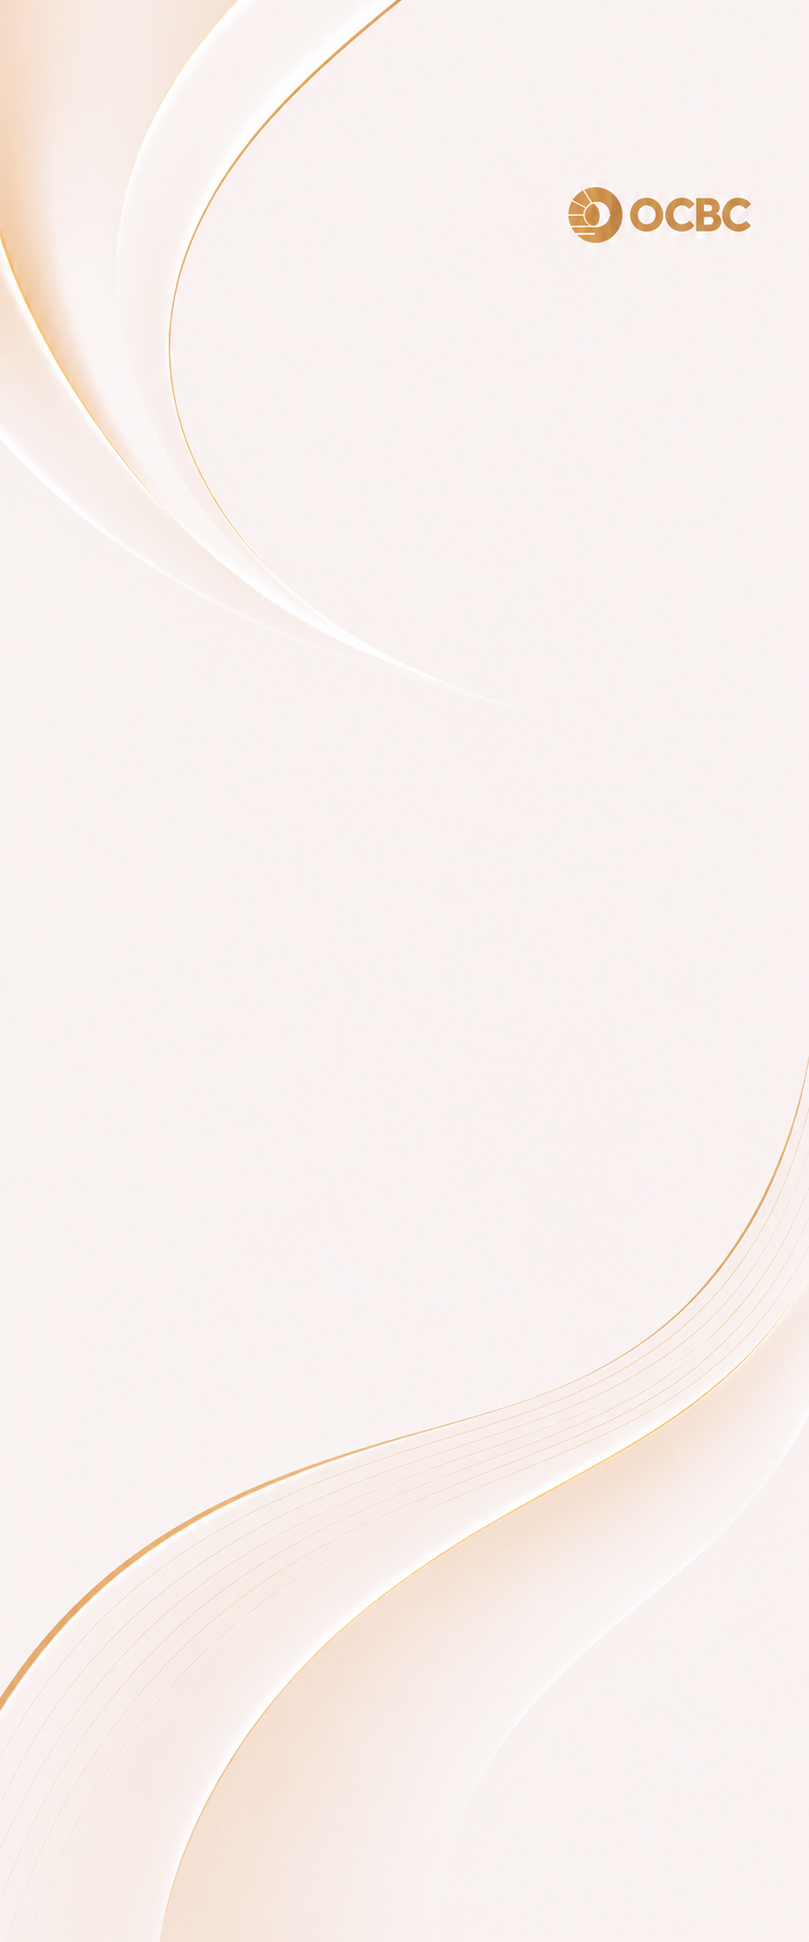
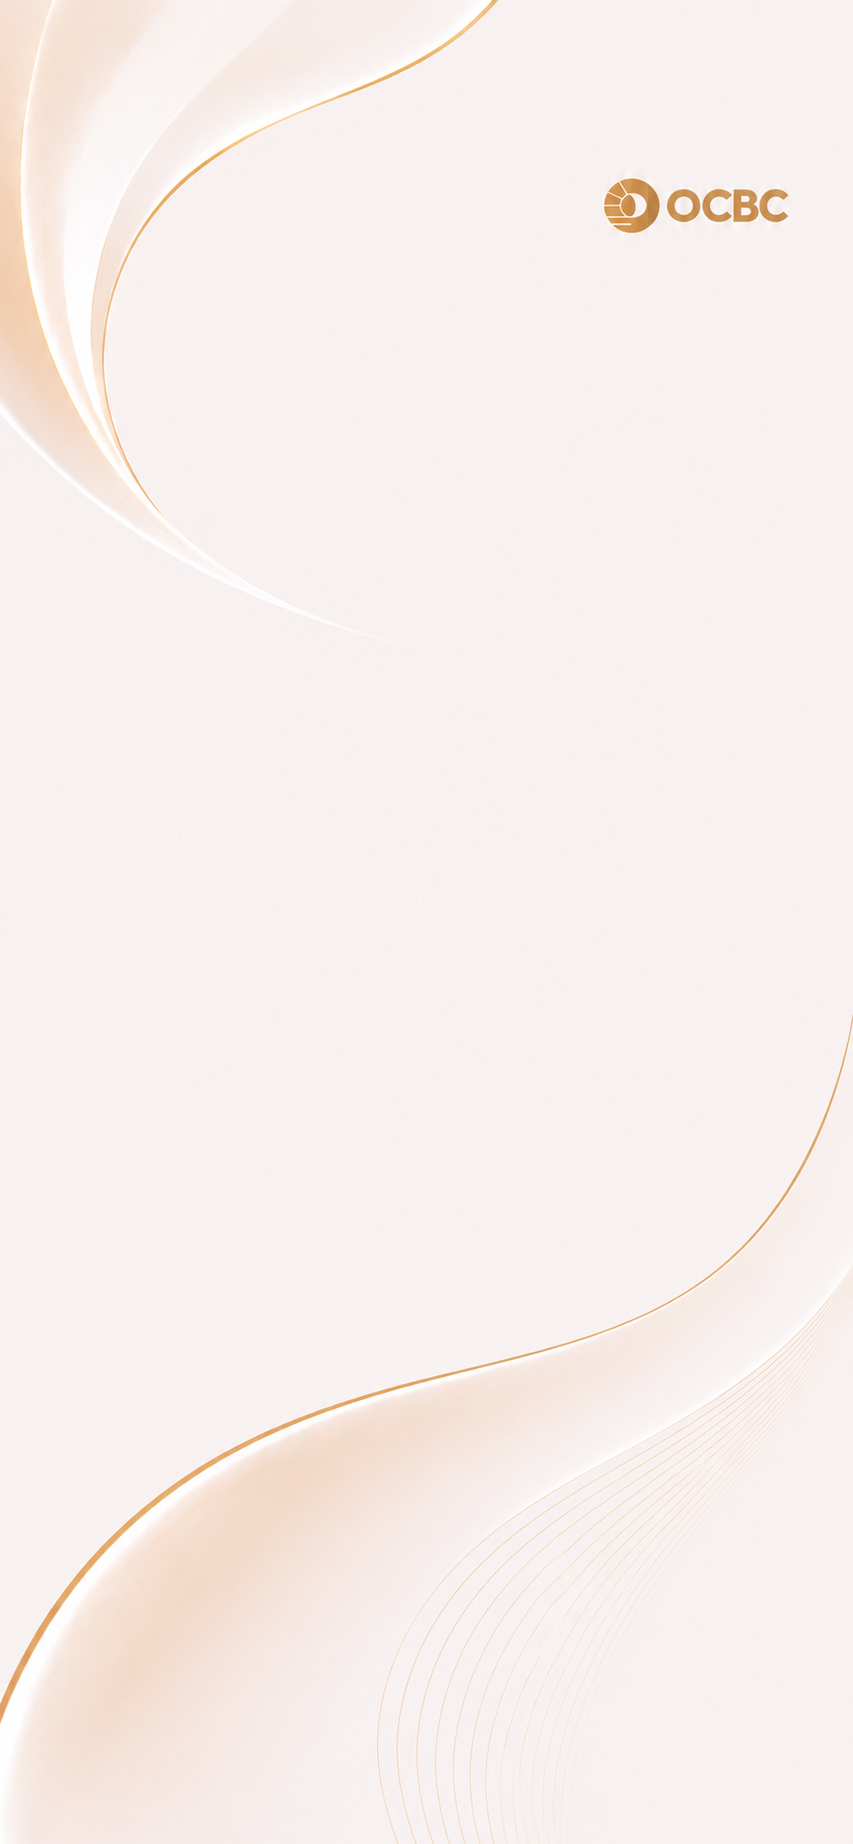
update ptt

diff --git a/OCBC_MyOneTeam_ExpDay_Demo.html b/OCBC_MyOneTeam_ExpDay_Demo.html
@@ -854,7 +854,7 @@
   <div class="screen">
     <div class="notch" style="position:absolute;top:0;left:50%;transform:translateX(-50%);width:122px;height:32px;background:#0a0b0d;border-radius:0 0 20px 20px;z-index:50"></div>
     <div class="screenbg" id="screenbg" style="display:none;position:absolute;top:0;left:0;right:0;bottom:0;overflow:hidden;z-index:0;pointer-events:none;background:#fbf3e9">
-      <img src="images/ocbc-ea-myaiteam.png" alt="" style="position:absolute;left:0;top:-40px;width:100%;height:auto;display:block">
+      <img id="screenbgImg" src="images/ocbc-ea-myaiteam.png" alt="" style="position:absolute;left:0;top:-40px;width:100%;height:auto;display:block">
     </div>
     <div class="statusbar" id="statusbar"><span id="clock">9:41</span><span>5G&nbsp; 100%</span></div>
     <div class="view" id="view"></div>
@@ -1763,12 +1763,13 @@ goals(){const sel=AGENTS.filter(a=>state.agents.includes(a.id));
     (AGENT_Q[a.id]||[]).forEach(f=>turns.push({type:'q',agent:a,field:f}));
   });
   state._turns=turns;
-  return appbar('Your Goals','team')+`<div class="pad" style="padding-bottom:24px">
-  <div class="stepbadge">Step 2 · Tell us about your goals</div>
+  return `<div style="position:relative">
+  <div style="position:relative;z-index:1;padding-top:50px">${appbar('Your Goals','team',false,true)}<div class="pad" style="padding-bottom:24px">
+  <div class="stepbadge gold">Step 2 · Tell us about your goals</div>
   <h1>Quick Chat With Your Team</h1>
   <p class="sub">We've already got some of this on file. Use the suggested answer or type your own.</p>
   <div id="goalChat" class="goalchat"></div>
-</div>`;},
+</div></div></div>`;},
 
 risk(){const surplus=BANK_KNOWN.monthlyIncome-BANK_KNOWN.monthlySpend;return appbar('Risk Comfort','goals')+`<div class="pad">
   <div class="stepbadge">Step 3 · Your risk comfort</div>
@@ -2937,8 +2938,20 @@ function startCarousel(){
 function render(){
   if(window._agTimer){clearInterval(window._agTimer);window._agTimer=null;}
   closePicker();hideModal();$('view').innerHTML=S[cur]();$('view').scrollTop=0;
-  $('statusbar').className='statusbar'+(cur==='home'||cur==='team'?' onhero':cur==='login'?' over':'');
-  if($('screenbg'))$('screenbg').style.display=(cur==='team')?'block':'none';
+  const BG_SCREENS={
+    team:{img:'images/ocbc-ea-myaiteam.png',top:-40,width:100},
+    goals:{img:'images/ocbc-ea-yourgoals.png',top:-97,width:101.53}
+  };
+  $('statusbar').className='statusbar'+(cur==='home'||BG_SCREENS[cur]?' onhero':cur==='login'?' over':'');
+  if($('screenbg')){
+    const bgCfg=BG_SCREENS[cur];
+    $('screenbg').style.display=bgCfg?'block':'none';
+    if(bgCfg){
+      $('screenbgImg').src=bgCfg.img;
+      $('screenbgImg').style.top=bgCfg.top+'px';
+      $('screenbgImg').style.width=bgCfg.width+'%';
+    }
+  }
   const i=ORDER.indexOf(STEP_ALIAS[cur]||cur);$('stepLabel').textContent=(i+1)+' / '+ORDER.length+' · '+NAMES[cur];
   const fabScreens=['reco','portfolio','tune','projection','advice','trade','pilot','review'];
   const showFab=fabScreens.indexOf(cur)>=0;
